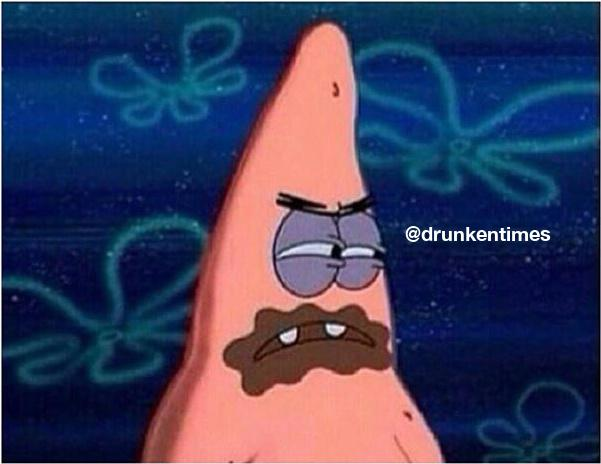
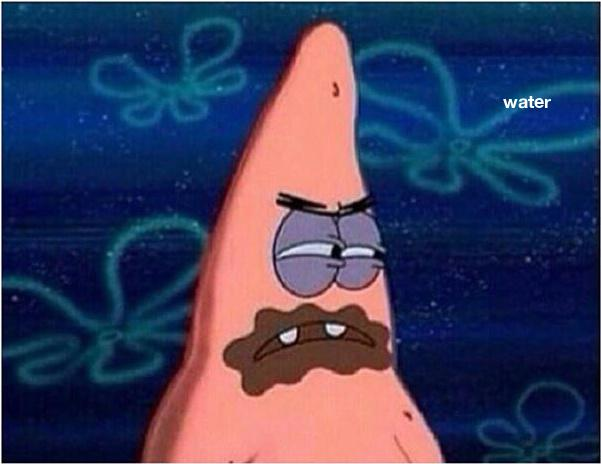
added start for bulk-watermarker.py

Changed region(s): [[0.6589, 0.4828, 0.9285, 0.5431], [0.8386, 0.2112, 0.9285, 0.2414]]

diff --git a/bulk-watermarker.py b/bulk-watermarker.py
@@ -31,36 +31,19 @@ def place_trademark(im, trademark, font, wm_loc_num):
 	return im
 
 def get_wm_loc_num():
-	print "Enter a location to place the watermark on the image: (1-9)"
-	interface = "  locations: \n  1 | 2 | 3 \n ----------- \n  4 | 5 | 6 \n ----------- \n  7 | 8 | 9 "
+	print "Select where to place watermark on image:"
+	interface = "\n" + " 1 | 2 | 3 " + "\n" + "-----------" + "\n" + " 4 | 5 | 6 " + "\n" + "-----------" + "\n" + " 7 | 8 | 9 "
 	print interface
 	wm_loc_num = raw_input()
 	return wm_loc_num
 
 def main():
-	while True:
-		try:
-			im_path = "in/" + raw_input("Enter image path: in/")
-			im = Image.open(im_path)
-			im = im.convert("RGB")
-		except:
-			print "file does not exist!"
-			continue
-		break
-
-	wm_text = raw_input("Enter watermark text: ")
 	wm_loc_num = get_wm_loc_num()
-
-	# hardcoded for debugging
-	# wm_text = "hey there"
-	# wm_loc_num = "5"
-	# im_path = "in/meme.jpg"
-
-	W = im.getbbox()[2]
-	font_size = int(W * 0.03)
-	font = ImageFont.truetype('utils/HelveticaNeue.dfont', font_size)
+	im_path = ("in/meme.jpg")
+	wm_text = ("@drunkentimes")
+	font = ImageFont.truetype('utils/HelveticaNeue.dfont', 20)
+	im = Image.open(im_path)  
 	im = place_trademark(im, wm_text, font, wm_loc_num)
 	im.save("out/meme.jpg")
-	print "Watermark added!"
 
 main()
